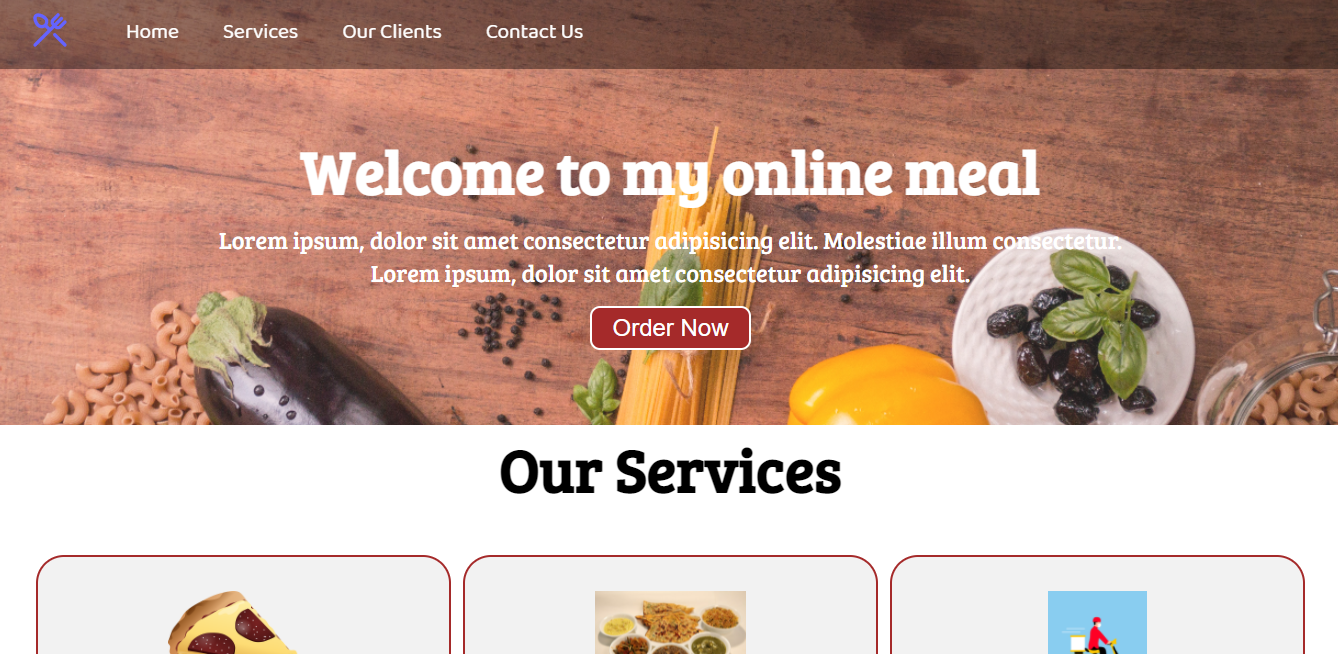
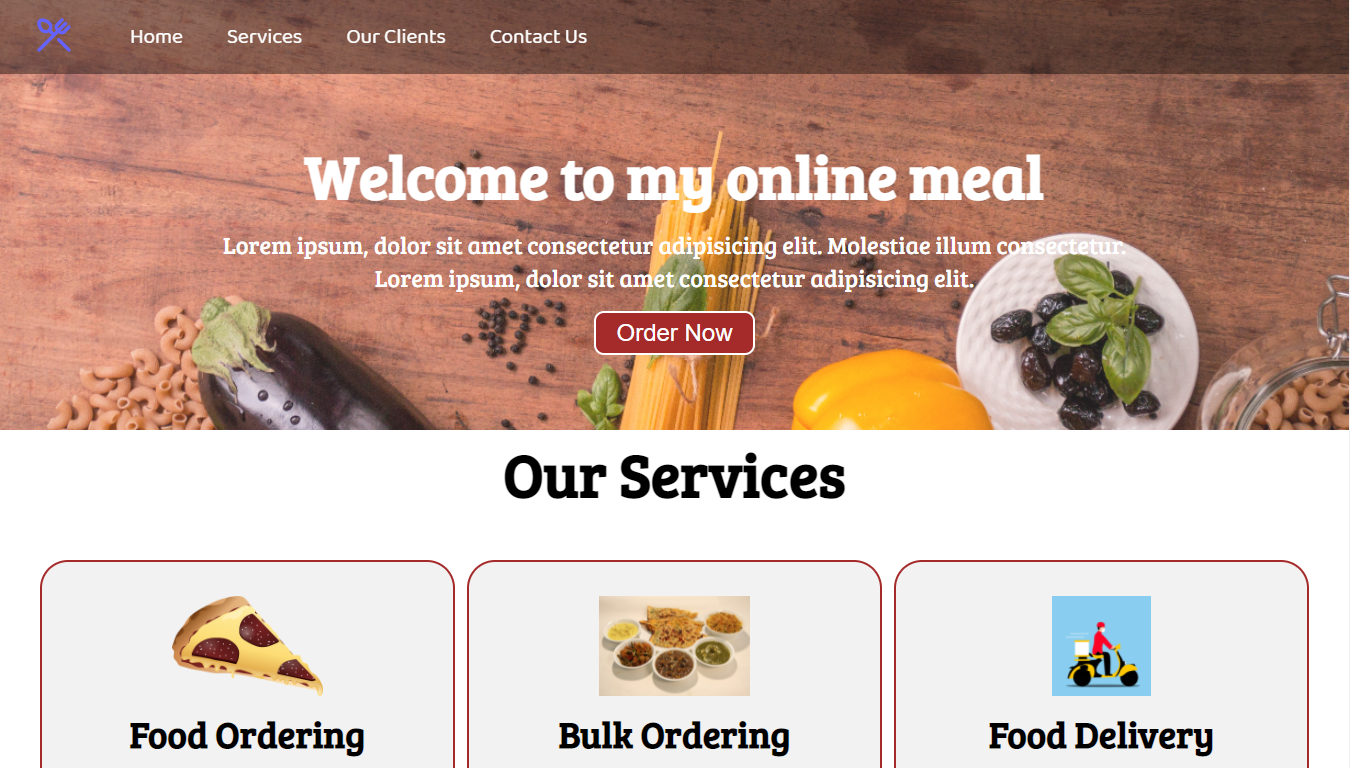
Projects images updated

diff --git a/index.html b/index.html
@@ -673,7 +673,7 @@
                 <div class="swiper-wrapper">
                     <!-- ================ PORTFOLIO-1 =================== -->
                     <div class="portfolio__content grid swiper-slide">
-                        <img src="assets/img/portfolio-1.jpg" alt="" class="portfolio__img">
+                        <img src="assets/img/E-commerce-website.png" alt="" class="portfolio__img">
                         <div class="portfolio__data">
                             <h3 class="portfolio__title">E-commerce Website</h3>
                             <p class="portfolio__description">
